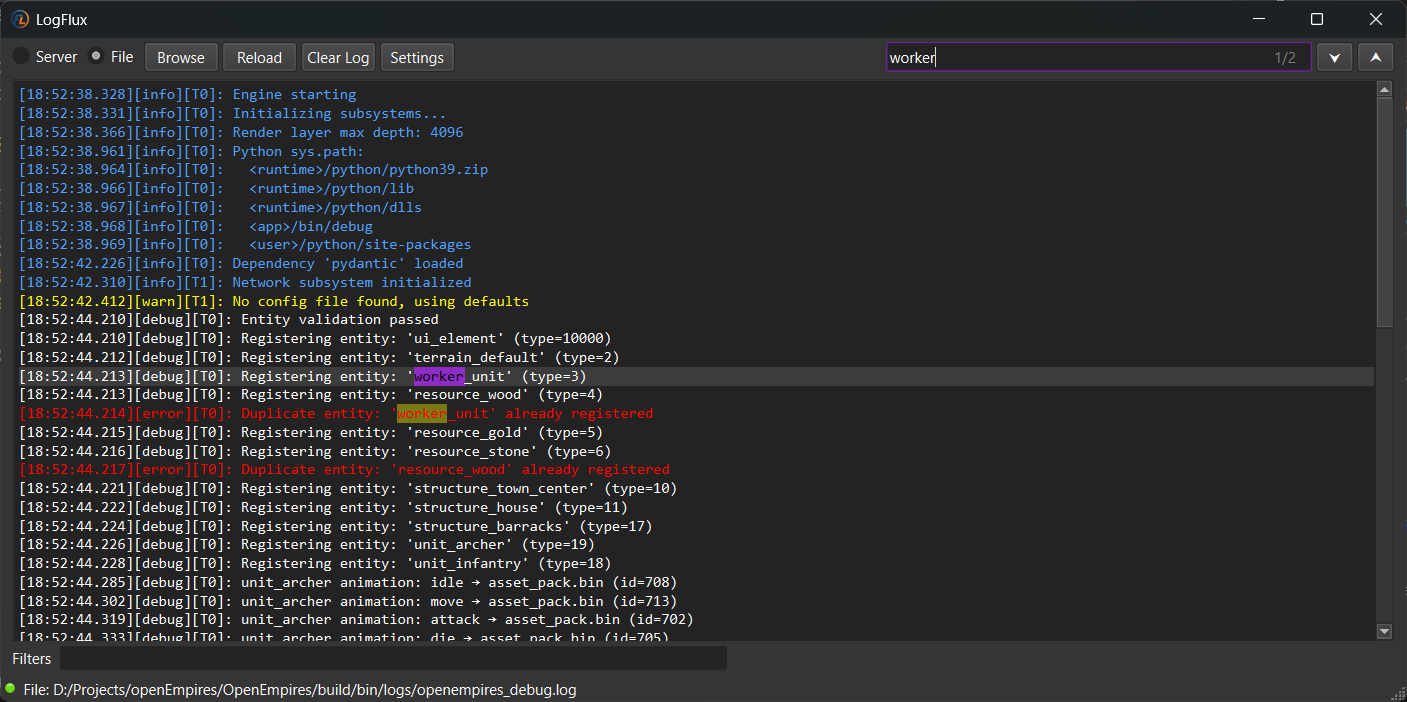
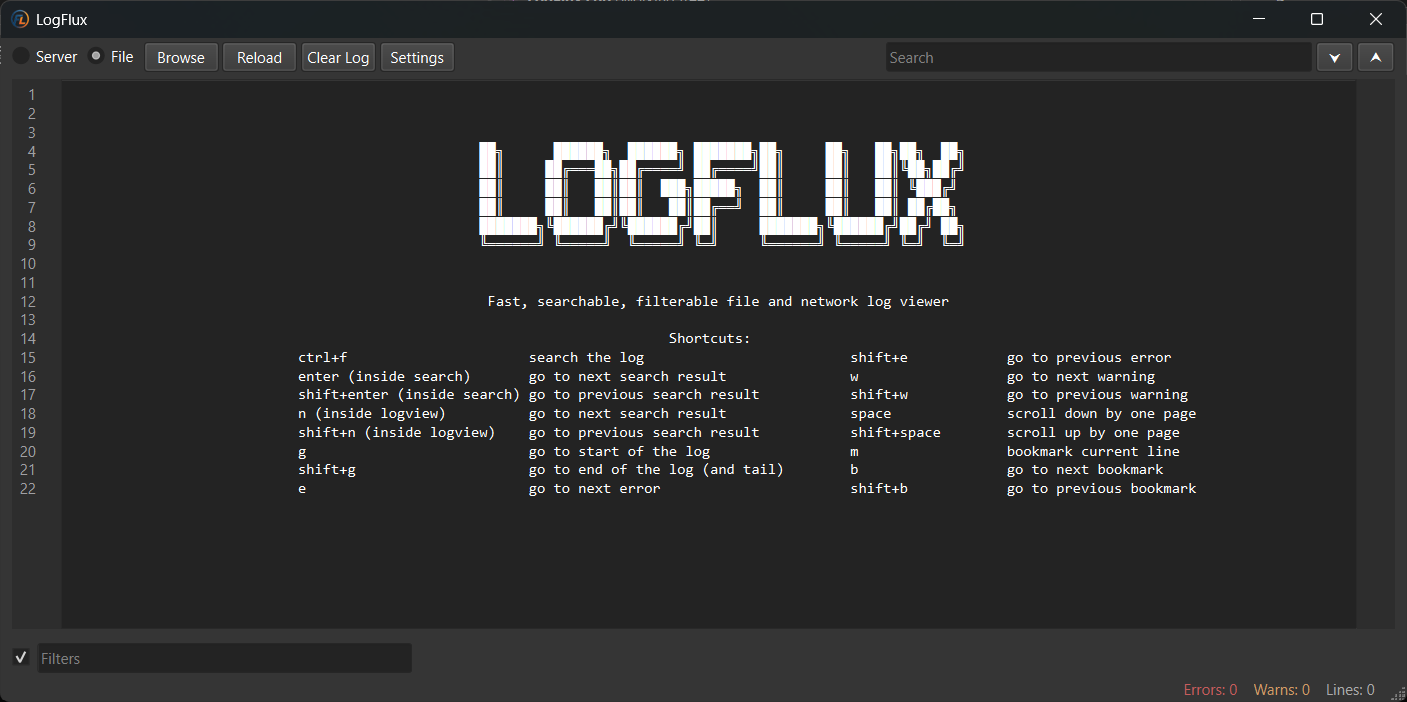
Add filtering disable capability with one click. Update readme.md.

diff --git a/LogFlux/TagWidgets.h b/LogFlux/TagWidgets.h
@@ -184,18 +184,50 @@ private:
 	void refreshStyle()
 	{
 		const QPalette& pal = palette();
+
+		const QColor textColor = pal.color(QPalette::WindowText);
+		const QColor secondaryColor = pal.color(QPalette::PlaceholderText);
+
+		const QColor disabledText = pal.color(QPalette::Disabled, QPalette::WindowText);
+		const QColor disabledSecondary = pal.color(QPalette::Disabled, QPalette::PlaceholderText);
+
 		m_label->setStyleSheet(
-			QString("QLabel { color: %1; font-size: 13px; background: transparent; }")
-			.arg(pal.color(QPalette::WindowText).name()));
+			QString(R"(
+            QLabel {
+                color: %1;
+                font-size: 13px;
+                background: transparent;
+            }
+            QLabel:disabled {
+                color: %2;
+            }
+        )")
+			.arg(textColor.name())
+			.arg(disabledText.name())
+		);
+
 		m_close->setStyleSheet(
 			QString(R"(
-                QToolButton { color: %1; background: transparent; border: none;
-                              font-size: 15px; line-height: 16px;
-                              padding: 0; margin: 0 0 2px 0; }
-                QToolButton:hover { color: %2; }
-            )")
-			.arg(pal.color(QPalette::PlaceholderText).name())
-			.arg(pal.color(QPalette::WindowText).name()));
+            QToolButton {
+                color: %1;
+                background: transparent;
+                border: none;
+                font-size: 15px;
+                line-height: 16px;
+                padding: 0;
+                margin: 0 0 2px 0;
+            }
+            QToolButton:hover {
+                color: %2;
+            }
+            QToolButton:disabled {
+                color: %3;
+            }
+        )")
+			.arg(secondaryColor.name())     // normal (subtle)
+			.arg(textColor.name())          // hover (strong)
+			.arg(disabledSecondary.name())  // disabled (faded)
+		);
 	}
 
 	QLabel* m_label = nullptr;

diff --git a/LogFlux/main.cpp b/LogFlux/main.cpp
@@ -55,6 +55,18 @@ int main(int argc, char *argv[])
 	darkPalette.setColor(QPalette::BrightText, Qt::red);
 	darkPalette.setColor(QPalette::Highlight, QColor(142, 45, 197));
 	darkPalette.setColor(QPalette::HighlightedText, Qt::black);
+
+	// Explicitly set the Disabled color group so disabled widgets look "grayed"
+	darkPalette.setColor(QPalette::Disabled, QPalette::Window, QColor(53, 53, 53));
+	darkPalette.setColor(QPalette::Disabled, QPalette::WindowText, QColor(120, 120, 120));
+	darkPalette.setColor(QPalette::Disabled, QPalette::Base, QColor(30, 30, 30));
+	darkPalette.setColor(QPalette::Disabled, QPalette::Text, QColor(110, 110, 110));
+	darkPalette.setColor(QPalette::Disabled, QPalette::Button, QColor(53, 53, 53));
+	darkPalette.setColor(QPalette::Disabled, QPalette::ButtonText, QColor(120, 120, 120));
+	darkPalette.setColor(QPalette::Disabled, QPalette::Highlight, QColor(80, 80, 80));
+	darkPalette.setColor(QPalette::Disabled, QPalette::HighlightedText, QColor(130, 130, 130));
+
+
 	app.setPalette(darkPalette);
 	app.setStyle(QStyleFactory::create("Fusion"));
 

diff --git a/LogFlux/LogFlux.cpp b/LogFlux/LogFlux.cpp
@@ -60,6 +60,8 @@ LogFlux::LogFlux(QWidget *parent)
 	connect(ui.lineEditFilter, &TagLineEdit::backspaceOnEmpty, ui.filters, &TagBar::removeLastTag);
 	// Keep minimap in sync with bookmark changes (bookmarks can change anytime)
 	connect(ui.bookmarkBar, &BookmarkArea::bookmarkToggled, ui.scrollbarMinimap, &MiniMap::setBookmark);
+	connect(ui.checkBoxFilters, &QCheckBox::toggled, this, &LogFlux::filtersEnabled);
+
 	startServer("", 5000); // Start server, but file would be the default source
 }
 
@@ -429,6 +431,19 @@ void LogFlux::filtersChanged(const QStringList& filters)
 		highlightAllMatches(m_searchText);
 	else
 		updateSelections();
+}
+
+void LogFlux::filtersEnabled(bool enabled)
+{
+	if (enabled)
+	{
+		filtersChanged(m_filtersBackup);
+	}
+	else
+	{
+		m_filtersBackup = m_filters;
+		filtersChanged({});
+	}
 }
 
 void LogFlux::updateSelections()

diff --git a/LogFlux/LogFlux.h b/LogFlux/LogFlux.h
@@ -67,6 +67,7 @@ private:
 
 	// Filtering
 	QList<QString> m_filters;        // active filters (global, case-insensitive)
+	QList<QString> m_filtersBackup;
 	QList<QString> m_allLines;       // full buffer of lines currently shown (cleared on onClearLog)
 
 	QTextCharFormat formatForLine(const QString& line);
@@ -108,6 +109,7 @@ private slots:
 	bool eventFilter(QObject* obj, QEvent* event);
 	void launchSettingsWindow();
 	void filtersChanged(const QStringList& filters);
+	void filtersEnabled(bool enabled);
 
 signals:
 	void sourceStatusChange(SourceType type, DataSource* source, bool online);

diff --git a/README.md b/README.md
@@ -5,6 +5,7 @@ Network and File log viewer
 LogFlux is a lightweight desktop application for viewing and following log data from local files and network sources in real time. It is implemented in modern C++ with a Qt-based user interface and focuses on fast navigation, searching with jump-to-result, auto-follow (tail) mode, and a compact keyboard-friendly UI.
 
 ![Screenshot](doc/screenshot_1.png)
+![Screenshot](doc/screenshot_2.png)
 
 ## Technology & Dependencies
 LogFlux is built using the following technologies:
@@ -31,14 +32,14 @@ python tests/send_logs.py
 - Log level based text coloring.
 - Jumping to log start and end with `less` sort of shortcuts
 - Keyboard navigations (navigating between lines, jumping to start/end of the log)
-
-## Planned Features
 - Filters.
-- Ability to select case sensitivity, whole word and regex for searching.
-- Shortcuts for jumping between errors and warnings.
-- Minimap based scrolling.
 - Bookmark support.
-- Stats like total lines, errors, and warnings.
+- Stats; total lines, errors, and warnings.
+- Minimap based scrolling.
+- Shortcuts for jumping between errors and warnings.
+- 
+## Planned Features
+- Ability to select case sensitivity, whole word and regex for searching.
 - Support drag and drop of files.
 
 ## Usage
